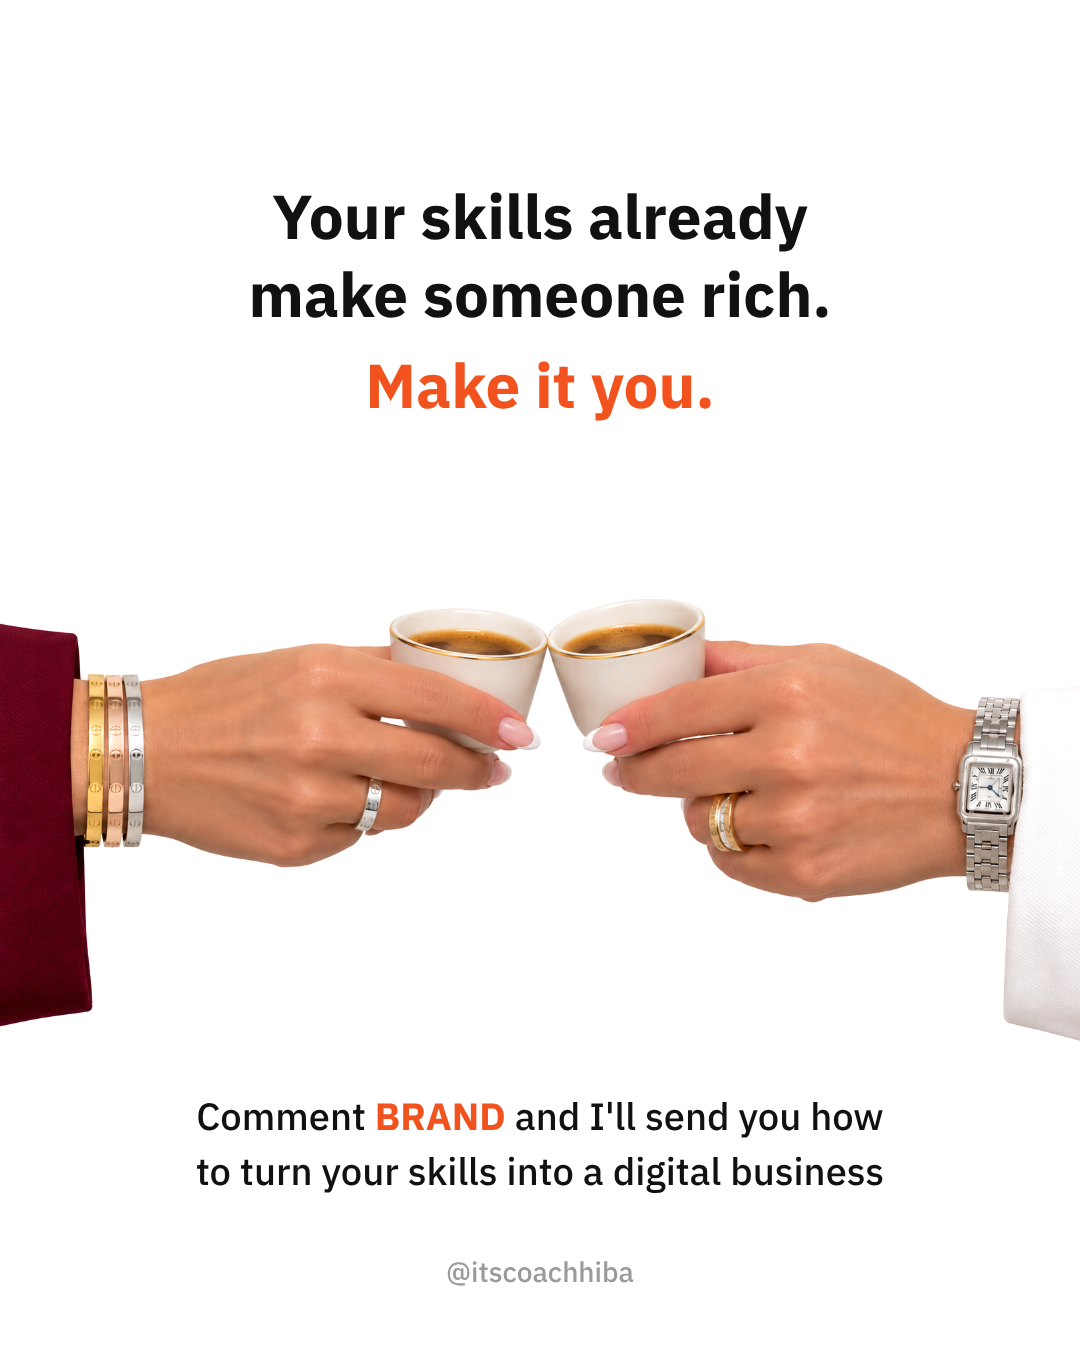
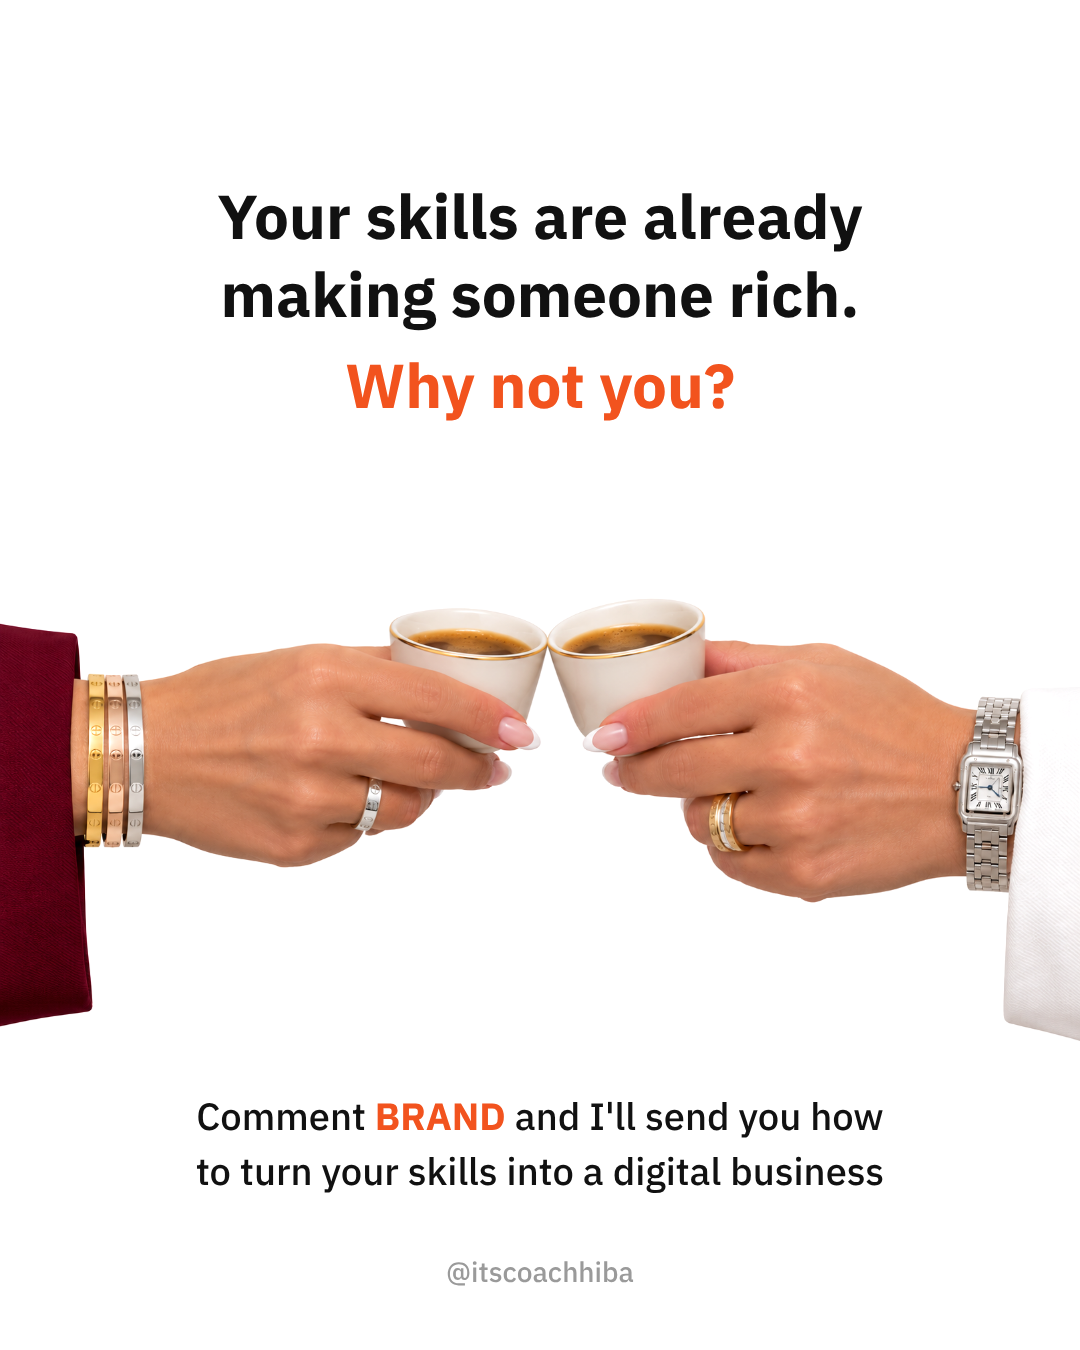
English carousel: closing line 'Why not you?'
Claude-Session: https://claude.ai/code/session_01Q3F4hydPDiJyjfKYRyCC3U

Changed region(s): [[0.1833, 0.1244, 0.7944, 0.3111]]

diff --git a/carousels/16-same-skills-bigger-income/carousel_en.html b/carousels/16-same-skills-bigger-income/carousel_en.html
@@ -12,4 +12,4 @@
 .end .top{position:absolute;top:180px;left:80px;right:80px}
 .big{font-weight:700;font-size:62px;line-height:1.25;text-wrap:balance}.big.o{color:#F2531E;margin-top:14px}
 .cta{position:absolute;top:1090px;left:110px;right:110px;font-weight:500;font-size:38px;line-height:1.45;text-wrap:balance}
-.cta b{color:#F2531E;font-weight:700}</style></head><body><section class="slide"><div class="pair"><p class="w">wait for a rich husband</p><i></i><p class="s">become the rich one</p></div><img class="img" src="hands_en.png"><div class="h">@itscoachhiba</div></section><section class="slide"><div class="pair"><p class="w">explain your dreams</p><i></i><p class="s">show your results</p></div><img class="img" src="hands_en.png"><div class="h">@itscoachhiba</div></section><section class="slide"><div class="pair"><p class="w">wait for the right time</p><i></i><p class="s">start now</p></div><img class="img" src="hands_en.png"><div class="h">@itscoachhiba</div></section><section class="slide"><div class="pair"><p class="w">wait for a raise</p><i></i><p class="s">set your own price</p></div><img class="img" src="hands_en.png"><div class="h">@itscoachhiba</div></section><section class="slide"><div class="pair"><p class="w">use your skills for someone else</p><i></i><p class="s">turn them into a digital business</p></div><img class="img" src="hands_en.png"><div class="h">@itscoachhiba</div></section><section class="slide"><div class="pair"><p class="w">chase clients</p><i></i><p class="s">attract clients</p></div><img class="img" src="hands_en.png"><div class="h">@itscoachhiba</div></section><section class="slide"><div class="pair"><p class="w">post and pray</p><i></i><p class="s">post and sell</p></div><img class="img" src="hands_en.png"><div class="h">@itscoachhiba</div></section><section class="slide"><div class="pair"><p class="w">lower your prices</p><i></i><p class="s">raise your value</p></div><img class="img" src="hands_en.png"><div class="h">@itscoachhiba</div></section><section class="slide end"><div class="top"><p class="big">Your skills already make someone rich.</p><p class="big o">Make it you.</p></div><img class="img" src="coffee_en.png"><div class="cta">Comment <b>BRAND</b> and I'll send you how to turn your skills into a digital business</div><div class="h">@itscoachhiba</div></section></body></html>
+.cta b{color:#F2531E;font-weight:700}</style></head><body><section class="slide"><div class="pair"><p class="w">wait for a rich husband</p><i></i><p class="s">become the rich one</p></div><img class="img" src="hands_en.png"><div class="h">@itscoachhiba</div></section><section class="slide"><div class="pair"><p class="w">explain your dreams</p><i></i><p class="s">show your results</p></div><img class="img" src="hands_en.png"><div class="h">@itscoachhiba</div></section><section class="slide"><div class="pair"><p class="w">wait for the right time</p><i></i><p class="s">start now</p></div><img class="img" src="hands_en.png"><div class="h">@itscoachhiba</div></section><section class="slide"><div class="pair"><p class="w">wait for a raise</p><i></i><p class="s">set your own price</p></div><img class="img" src="hands_en.png"><div class="h">@itscoachhiba</div></section><section class="slide"><div class="pair"><p class="w">use your skills for someone else</p><i></i><p class="s">turn them into a digital business</p></div><img class="img" src="hands_en.png"><div class="h">@itscoachhiba</div></section><section class="slide"><div class="pair"><p class="w">chase clients</p><i></i><p class="s">attract clients</p></div><img class="img" src="hands_en.png"><div class="h">@itscoachhiba</div></section><section class="slide"><div class="pair"><p class="w">post and pray</p><i></i><p class="s">post and sell</p></div><img class="img" src="hands_en.png"><div class="h">@itscoachhiba</div></section><section class="slide"><div class="pair"><p class="w">lower your prices</p><i></i><p class="s">raise your value</p></div><img class="img" src="hands_en.png"><div class="h">@itscoachhiba</div></section><section class="slide end"><div class="top"><p class="big">Your skills are already making someone rich.</p><p class="big o">Why not you?</p></div><img class="img" src="coffee_en.png"><div class="cta">Comment <b>BRAND</b> and I'll send you how to turn your skills into a digital business</div><div class="h">@itscoachhiba</div></section></body></html>

diff --git a/carousels/16-same-skills-bigger-income/build_en.py b/carousels/16-same-skills-bigger-income/build_en.py
@@ -22,8 +22,8 @@ h = '<div class="h">@itscoachhiba</div>'
 s = ""
 for w, st in P:
     s += f'<section class="slide"><div class="pair"><p class="w">{w}</p><i></i><p class="s">{st}</p></div><img class="img" src="hands_en.png">{h}</section>'
-s += ('<section class="slide end"><div class="top"><p class="big">Your skills already make someone rich.</p>'
-      '<p class="big o">Make it you.</p></div><img class="img" src="coffee_en.png">'
+s += ('<section class="slide end"><div class="top"><p class="big">Your skills are already making someone rich.</p>'
+      '<p class="big o">Why not you?</p></div><img class="img" src="coffee_en.png">'
       '<div class="cta">Comment <b>BRAND</b> and I\'ll send you how to turn your skills into a digital business</div>' + h + '</section>')
 
 css = '''@font-face{font-family:P;font-weight:700;src:url(ibm-plex-sans-arabic-latin-700.woff2)}

diff --git a/content-plan/carousel-ideas/01-same-skills-bigger-income-ar.md b/content-plan/carousel-ideas/01-same-skills-bigger-income-ar.md
@@ -48,4 +48,4 @@
 | post and pray | post and sell |
 | lower your prices | raise your value |
 
-Closing: **Same skills. Bigger income.** Your 9-5 isn't the only option. Comment BRAND…
+Closing: **Your skills are already making someone rich. Why not you?** Comment BRAND…
